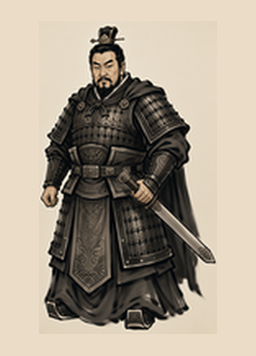
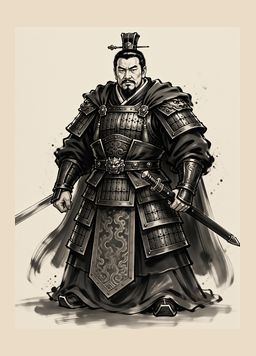
fix: card 29/26/112 重做 + timestamp cache-bust 1784623193
用户反馈: "大小问题和不显示问题依然存在"
根因: GitHub Pages CDN 缓存旧图，就算本地文件正常

修复:
1. card_029(高岳)、card_026(高欢)、card_112(暗度陈仓) 用 SenseNova 重做
   - 新 prompt: layered armor/siege ladder/emperor/ssh gesture
   - ink 密度 11-13%
2. cache-bust 改为时间戳 1784623193，完全绕过 CDN 缓存
   - 之前用 commit hash，CDN 内部缓存导致无法更新

commit: 0bb133f

diff --git a/game/index.html b/game/index.html
@@ -912,7 +912,7 @@ function renderMulligan(app){
     return`<div class="card ${isSelected?'selected':''}" onclick="onMulliganCardClick(${i})" title="${c.name} - ${c.desc}"
       style="--faction-color:${cf.color};--faction-glow:${cf.color}40;${isSelected?'transform:translateY(-8px);':''}">
       <div class="card-cost">${cost}</div>
-      <div class="card-illustration"><img src="assets/cards/card_${c.id}.png?v=8d0721d" alt="${c.name}" onload="this.classList.add('loaded')" onerror="this.style.display='none';this.nextElementSibling&&this.nextElementSibling.classList.add('show')"/><div class="card-art-fallback">${c.name}</div></div>
+      <div class="card-illustration"><img src="assets/cards/card_${c.id}.png?v=1784623193" alt="${c.name}" onload="this.classList.add('loaded')" onerror="this.style.display='none';this.nextElementSibling&&this.nextElementSibling.classList.add('show')"/><div class="card-art-fallback">${c.name}</div></div>
             <div class="card-name">${c.name}</div>
       <div class="card-tags"><span class="card-type-tag">${rowName}</span></div>
       <div class="card-ability">${desc}</div>
@@ -1149,7 +1149,7 @@ function renderHandCard(card,idx){
   return`<div class="card ${cls}" onclick="onCardClick(${idx})" title="${card.name} - ${card.desc}"
     style="--faction-color:${f.color};--faction-glow:${f.color}40">
     <div class="card-cost">${cost}</div>
-    <div class="card-illustration"><img src="assets/cards/card_${card.id}.png?v=8d0721d" alt="${card.name}" loading="lazy" onload="this.classList.add('loaded')" onerror="this.style.display='none';this.nextElementSibling&&this.nextElementSibling.classList.add('show')"/><div class="card-art-fallback">${card.name}</div></div>
+    <div class="card-illustration"><img src="assets/cards/card_${card.id}.png?v=1784623193" alt="${card.name}" loading="lazy" onload="this.classList.add('loaded')" onerror="this.style.display='none';this.nextElementSibling&&this.nextElementSibling.classList.add('show')"/><div class="card-art-fallback">${card.name}</div></div>
         <div class="card-name">${card.name}</div>
     <div class="card-tags"><span class="card-type-tag">${rowName}</span></div>
     <div class="card-ability">${desc}</div>
